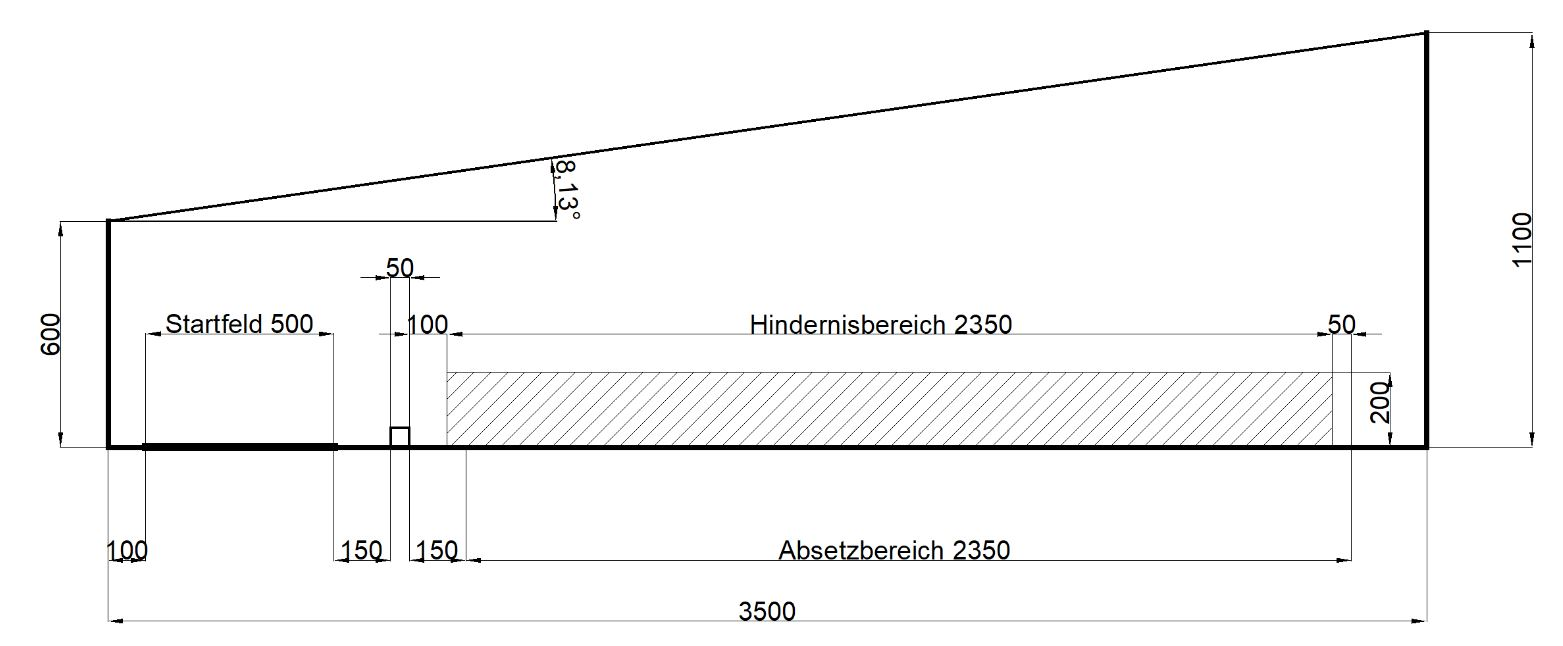
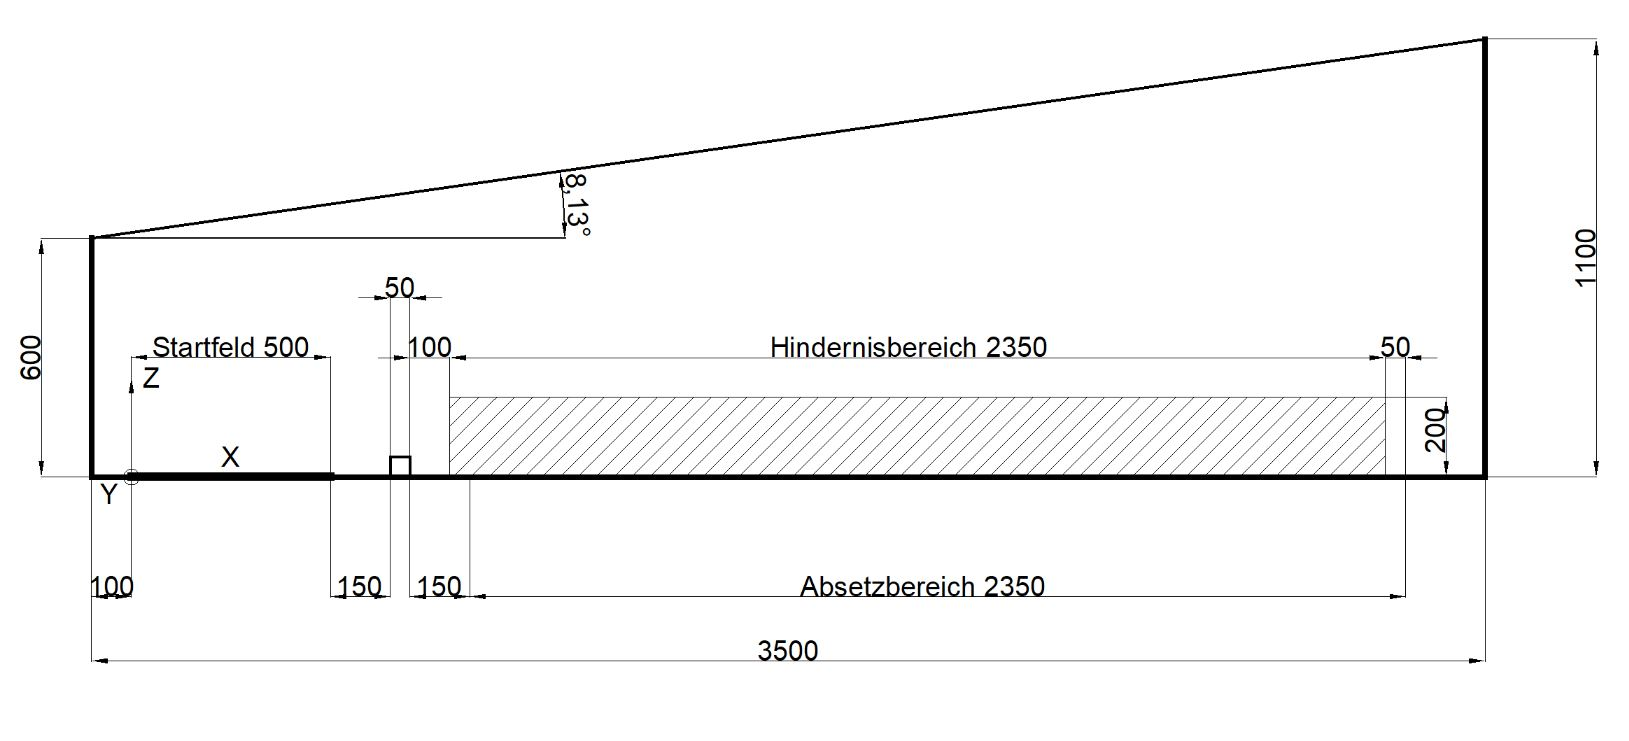
Bild ersetzt
Bild mit Kord. System ergänzt

diff --git a/Projektdokumentation.tex b/Projektdokumentation.tex
@@ -207,7 +207,7 @@ Für den Bau der Teilfunktionsmuster in PREN1 dürfen maximal CHF 200.- ausgegeb
 \chapter{Anforderungen}
 \section{Kurzbeschrieb Anforderungen}
 
-Das Gerät muss sich autonom an einem ansteigenden Drahtseil fortbewegen könne. Eine Last muss an einem bestimmten Ort aufgehoben werden, ohne Berührungen über Hindernisse gebracht und danach möglichst exakt auf einer Zielplatte abgesetzt werden. Nach dem absetzten der Last muss das Gerät den Zielraum erreichen und den Masten berühren. Die Zielplatte muss das Gerät selber erkennen können. Das Gerät darf nur die Last, das Drahtseil und den zweiten Masten berühren. Nach Aufnahme der Last muss die aktuelle Position der Last in x-, und z-Richtung in Echtzeit dargestellt werden. Das Gerät muss innerhalb von zwei Minuten startbereit sein. Die Zeit um den Zielraum zu erreichen liegt bei maximal vier Minuten. In der Abbildung \ref{fig:Funktionsskizze} sehen Sie dies bildlich.
+Das Gerät muss sich autonom an einem ansteigenden Drahtseil fortbewegen könne. Eine Last muss an einem bestimmten Ort aufgehoben werden, ohne Berührungen über Hindernisse gebracht und danach möglichst exakt auf einer Zielplatte abgesetzt werden. Nach dem absetzten der Last muss das Gerät den Zielraum erreichen und den Masten berühren. Die Zielplatte muss das Gerät selber erkennen können. Das Gerät darf nur die Last, das Drahtseil und den zweiten Masten berühren. Nach Aufnahme der Last muss die aktuelle Position der Last in x-, und z-Richtung in Echtzeit dargestellt werden. Das Gerät muss innerhalb von zwei Minuten startbereit sein. Die Zeit um den Zielraum zu erreichen liegt bei maximal vier Minuten. 
 
 
 \begin{figure}
